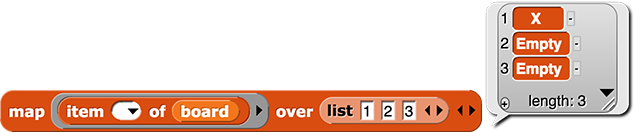
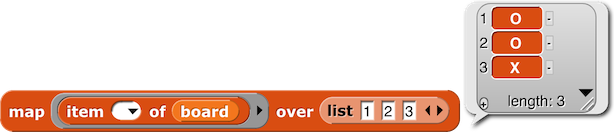
3.3 TTT edits

Changed region(s): [[0.0, 0.0303, 1.0, 1.0], [0.9593, 0.0303, 0.9902, 0.0909], [0.0, 0.9697, 0.0309, 1.0]]

diff --git a/cur/programming/3-lists/3-tic-tac-toe/1-find-ties.html b/cur/programming/3-lists/3-tic-tac-toe/1-find-ties.html
@@ -7,46 +7,18 @@
     </head> 
     
     <body>
-        <div class="todo">This comment box applies to both pages of the lab.
-            <p><strong>Why at all?</strong> This lab
-        introduces <code>map</code> and gives practice in using HOFs to do interesting analysis.  It also lays the groundwork for later strategy computation.</p>        
-            <p><strong>Why here?</strong> This unit is about lists, HOFs, and functional programming, all of which are exercised in this lab.  In particular, this lab replaces the former one with a page per HOF.</p>
-            <p>This very short page could possibly be combined with the next, to make a one-page lab.</p>
-        </div>
-
-    	<div class="todo">
-        	<p>
-                Here is some of the critical teacher feedback (there was some positive feedback, but more like this):
-                <ul>
-                	<li>Didn't feel students were prepared to complete without significant hand holding</li>
-                	<li>[to modify, I] Revised the instructions... wanted to ensure that the students understood what was happening more completely using various models.</li>
-                	<li>I needed to scaffold the use of map to identify wins. This was way over their heads</li>
-                	<li>This lab was challenging to break down to the students. ... I broke each step down into even smaller steps. I also supplemented ... the information... had some gaps...</li>
-                	<li>"Detecting Wins and Ties" task was difficult.</li>
-                	<li>complex, was a stretch for some students</li>
-                	<li>Overall the students found this unit to be very challenging.</li>
-                	<li>the use of “map” was not nearly well developed enough for them to get it. The mapping of the board over win list was very obscure in how it worked. Much more difficult than a simple “add something to everything”.</li>
-                	<li>some students really struggled.</li>
-                	<li>I was super heavy handed in helping the kids on this one.</li>
-                	<li>Students struggled.</li>
-                	<li>Some students were successful, but the majority were not.</li>
-                	<li>students found it really difficult</li>
-                	<li>The second part of the Tic-Tac-Toe lab, can be scaffolded more. the final task Detecting Win/Ties was challenging.</li>
-                	<li>Students had difficulties using higher order functions in their labs.</li>
-                </ul>
-            </p>
-        </div>
+	<h2>Detecting Wins and Ties</h2>
 		
-        <div class="learn">
+       <div class="learn">
             <p><strong>In this lab</strong>, you will continue your <a href="/bjc-r/cur/programming/3-lists/1-abstraction/5-building-tic-tac-toe.html?topic=nyc_bjc%2F2-conditionals-abstraction.topic&course=bjc4nyc.html&novideo&noassignment" title="Building a Tic-Tac-Toe Board">Tic-Tac-Toe project</a> to make the program <em>analyze</em> the game board to detect wins and ties.</p>
             <p><strong>On this page</strong>, you'll prepare by allowing the program to record the moves that are made.</p>
         </div>
-        <p>
+       <p>
             When you first wrote Tic Tac Toe, it was easy to detect illegal moves (moving to a square that's already wearing an X or O costume) because each sprite could test for that without knowing about the rest of the gameboard. But to detect wins and ties, the program needs a way to test the state of the <em>whole gameboard</em>, not just one individual piece. So, we'll use a <em>global variable</em>, <img src="/bjc-r/img/5-algorithms/board.png" alt="board" title="board">, to keep track of whether the square in each position is empty or filled with an X or an O.<br />
             <div class="sidenote">
                 <p>You learned about <strong>global variables</strong> on <a href="/bjc-r/cur/programming/2-complexity/1-variables-games/4-keeping-score.html?topic=nyc_bjc%2F2-conditionals-abstraction.topic&course=bjc4nyc.html&novideo&noassignment" title="Unit 2 Lab 1 Page 4: Keeping Score with Global Variables">Unit 2 Lab 1 Page 4: Keeping Score with Global Variables</a>.</p>
             </div>
-            <img class="indent noshadow" src="/bjc-r/img/3-lists/ttt-board-var.png" alt="picture of: watcher of board variable showing {X, O, Empty, Empty, X, Empty, Empty, Empty, O}; and Tic Tac Toe game with X in upper left and center and O in upper middle and lower right" title="picture of: watcher of board variable showing {X, O, Empty, Empty, X, Empty, Empty, Empty, O}; and Tic Tac Toe game with X in upper left and center and O in upper middle and lower right" />
+            <img class="indent noshadow" src="/bjc-r/img/3-lists/ttt-board-var.png" alt="picture of: watcher of board variable showing {O, O, X, 4, X, 6, X, 8, 9}; and Tic Tac Toe game with X, X, O in top row; empty, X, empty in middle row; and X, empty, empty in bottom row" title="picture of: watcher of board variable showing {O, O, X, 4, X, 6, X, 8, 9}; and Tic Tac Toe game with X, X, O in top row; empty, X, empty in middle row; and X, empty, empty in bottom row" />
         </p>
 
         <div class="forYouToDo" id="first">
@@ -59,7 +31,7 @@
             </ol>
         </div>
         
-        <p>Each sprite needs to know its own position on the board so that we can use the <code>item of</code> block to replace that position with an X or an O. So, we'll create a <em>sprite-local variable</em>, <img class="inline nopadtb" src="/bjc-r/img/3-lists/position-number.png" alt="position number" title="position number" />, and each clone will have its <em>own version</em> of this variable.</p>
+        <p>Each sprite needs to know its own position on the board so that we can use the <code>item of</code> block to replace that position with an X or an O. So, we'll create a <em>sprite variable</em>, <img class="inline nopadtb" src="/bjc-r/img/3-lists/position-number.png" alt="position number" title="position number" />, and each clone will have its <em>own version</em> of this variable.</p>
         
         <div class="vocabFullWidth">: <strong>Sprite Variable</strong>
             <p>A <strong>sprite variable</strong> is like a global variable in that it <em>doesn't</em> belong to a particular <em>script</em>, but it does belong to a particular <em>sprite.</em></p>
@@ -74,10 +46,10 @@
                     Create a sprite variable <var>position number</var>.
                     <div class="narrower">
                         <p>
-                            You make a local variable similarly to how you make global variables: 
+                            You make a sprite variable similarly to how you make global variables: 
                             <ul>
-                                <li>Click <img class="inline nopadtb noshadow" src="/bjc-r/img/1-introduction/make-a-variable.png" alt="make a variable button" title="make a variable button" /> in the Variables palette</li>
-                                <li>Then, as you are typing the variable's name, select "for this sprite only" to make it a local (sprite) variable</li>
+                                <li>Click <img class="inline nopadtb noshadow" src="/bjc-r/img/1-introduction/make-a-variable.png" alt="make a variable button" title="make a variable button" /> in the Variables palette.</li>
+                                <li>Then, as you are typing the variable's name, select "for this sprite only" to make it a sprite variable.</li>
                             </ul>
                         </p>
                         
@@ -89,7 +61,7 @@
                     <div class="endnote">
                         <a href="#hint-1" data-toggle="collapse" class="collapsed" title="Hint">Click for a hint on setting the <var>position number</var>.</a>
                         <div id="hint-1" class="collapse">
-                            In the loop that makes the clones, increase the variable by one for each new clone so that each clone will have a unique value.
+                            In the loop that makes the clones, increase the parent sprite's variable by one for each new clone so that each clone will have a unique value.
                         </div>
                     </div>
 					<div class="takeNote">Make sure that the parent's <var>position number</var> doesn't end up being a number 1-9 so that it doesn't conflict with a clone.</div>

diff --git a/cur/programming/3-lists/3-tic-tac-toe/2-checking-for-a-win.html b/cur/programming/3-lists/3-tic-tac-toe/2-checking-for-a-win.html
@@ -38,10 +38,10 @@
         </div>
         <p>
             We <em>could</em> check for each possible win separately:<br />        
-            <img class="indent" src="/bjc-r/img/3-lists/silly-check-win.png" alt="is there a win? : if (is there a win at (1) (2) (3) ?) report (true); if (is there a win at (4) (5) (6) ?) report (true); ...; if (is there a win at (3) (5) (7) ?) report (true); report (false)" title="is there a win? : if (is there a win at (1) (2) (3) ?) report (true); if (is there a win at (4) (5) (6) ?) report (true); ...; if (is there a win at (3) (5) (7) ?) report (true); report (false)">  
+            <img class="indent" src="/bjc-r/img/3-lists/silly-check-win.png" alt="is there a win? (Comment: Don't build this!! Just read it.) : if (is there a win at (1) (2) (3) ?) report (true); if (is there a win at (4) (5) (6) ?) report (true); ...; if (is there a win at (3) (5) (7) ?) report (true); report (false)" title="is there a win? (Comment: Don't build this!! Just read it.) : if (is there a win at (1) (2) (3) ?) report (true); if (is there a win at (4) (5) (6) ?) report (true); ...; if (is there a win at (3) (5) (7) ?) report (true); report (false)">  
         </p>
                       
-        <p>But that's way too much code, especially because we'll have to do something very similar later on, when the computer actually plays against you. Instead, we'll create a list to store all of the possible winning triples so we can check it against the current state of the game stored by <var>board</var>.</p>
+        <p>But that's way too much code, especially because we'll have to do something very similar again, later on, when the computer actually plays against you. Instead, we'll create a list to store all of the possible winning triples so we can check it against the current state of the game stored by <var>board</var>.</p>
         
         <div class="forYouToDo">
 			<ol start="2">
@@ -75,14 +75,12 @@
                     <div class="endnote">
                         <a href="#hint-map-item" data-toggle="collapse" title="How does map work here?">How does <code>map</code> work here?</a>
                         <div id="hint-map-item" class="collapse">
-                            <p>This <code>map</code> expression works the same way as the <code>join</code> example above, but it's a little more complex to think about. As before, <code>map</code> inserts each list item into the blank space in the function inside the gray ring, and it reports a list of the results.</p>
-                            <p>But here, the function in the gray ring is <code>item ( ) of (</code><var>board</var><code>)</code>, so <code>map</code> checks items 1, 2, and 3 of the list stored in the <var>board</var> variable, and it reports a list of what is in those three positions (X, O, or a number).</p>
+                            <p>This <code>map</code> expression works the same way as the <code>join</code> example above, but people sometimes find it a little more complex to think about, because it's natural to expect <img src="/bjc-r/img/3-lists/map-over-board.png" alt="map (something) over (board)" title="map (something) over (board)">, but that's <em>not</em> what the expression says.  Instead, it maps over a <em>constant</em> list, not a variable. As before, <code>map</code> inserts each list item into the blank space in the function inside the gray ring, and it reports a list of the results.</p>
+                            <p>But here, the function in the gray ring is <code>item ( ) of (</code><var>board</var><code>)</code>, so <code>map</code> checks items 1, 2, and 3 of the <var>board</var> list, and it reports a list of what is in those three positions (each of which is X, O, or a number).</p>
                             <p>
                             	If you can't see what's inside the <var>board</var> variable, be sure its box is checked in the Variables palette and expand its watcher to see its list items as in the picture below.<br />
-                                <div class="todo">Brian, you need to redo these images and their alt/title text. --MF, 5/31/20
-                                <img class="indent noshadow" src="/bjc-r/img/3-lists/ttt-board-var.png" alt="picture of: watcher of board variable showing {X, O, Empty, Empty, X, Empty, Empty, Empty, O}; and Tic Tac Toe game with X in upper left and center and O in upper middle and lower right" title="picture of: watcher of board variable showing {X, O, Empty, Empty, X, Empty, Empty, Empty, O}; and Tic Tac Toe game with X in upper left and center and O in upper middle and lower right" />
-                                <img class="indent" src="/bjc-r/img/3-lists/map-item-board-reporting.png" alt="map (item ( ) of (board)) over (list{1, 2, 3}) reporting {X, Empty, Empty}" title="map (item ( ) of (board)) over (list{1, 2, 3}) reporting {X, Empty, Empty}"><br />
-                                </div>
+            <img class="indent noshadow" src="/bjc-r/img/3-lists/ttt-board-var.png" alt="picture of: watcher of board variable showing {O, O, X, 4, X, 6, X, 8, 9}; and Tic Tac Toe game with X, X, O in top row; empty, X, empty in middle row; and X, empty, empty in bottom row" title="picture of: watcher of board variable showing {O, O, X, 4, X, 6, X, 8, 9}; and Tic Tac Toe game with X, X, O in top row; empty, X, empty in middle row; and X, empty, empty in bottom row" />
+                               <img class="indent" src="/bjc-r/img/3-lists/map-item-board-reporting.png" alt="map (item ( ) of (board)) over (list{1, 2, 3}) reporting {O, O, X}" title="map (item ( ) of (board)) over (list{1, 2, 3}) reporting {O, O, X}"><br />
 							</p>
                         </div>
                     </div>
@@ -93,7 +91,7 @@
                 </li>
                 <li>If <code>{1, 2, 3}</code> isn't the triple in which <strong>x</strong> won the game, replace the list in the <code>map</code> expression with the winning triple, and click the expression again.</li>
                 <li>
-                	Use this idea to make a <img src="/bjc-r/img/3-lists/status-of-triple.png" alt="status of triple ( )" title="status of triple ( )"> block that takes one possible winning triple (a triple like <img src="/bjc-r/img/3-lists/{1,2,3}.png" alt="list{1, 2, 3}" title="list{1, 2, 3}">) as input and reports a list of what is in those three positions (X, O, or Empty).
+                	Use this idea to make a <img src="/bjc-r/img/3-lists/status-of-triple.png" alt="status of triple ( )" title="status of triple ( )"> block that takes one possible winning triple (a triple like <img src="/bjc-r/img/3-lists/{1,2,3}.png" alt="list{1, 2, 3}" title="list{1, 2, 3}">) as input and reports a list of what is in those three positions (X, O, or Empty).  Then use it to write an expression in the scripting area whose value will be <code>True</code> if X won the game <em>in the triple <img src="/bjc-r/img/3-lists/{1,2,3}.png" alt="list{1, 2, 3}" title="list{1, 2, 3}">,</em> or <code>False</code> otherwise.
                     <div class="endnote">You learned how to specify the list input type (<img class="inline" src="/bjc-r/img/3-lists/list_input_slot.png" alt="list input type: rectangle with two smaller orange rectangles inside" title="list input type: rectangle with two smaller orange rectangles inside">) on <a href="/bjc-r/cur/programming/2-complexity/2-data-structures-art/2-quizzes.html?topic=nyc_bjc%2F2-conditionals-abstraction.topic&course=bjc4nyc.html&novideo&noassignment" title="Unit 2 Lab 2 Page 2: Planning a Quiz App">Unit 2 Lab 2 Page 2: Planning a Quiz App</a>.</div>
                 </li>
                 <li>
